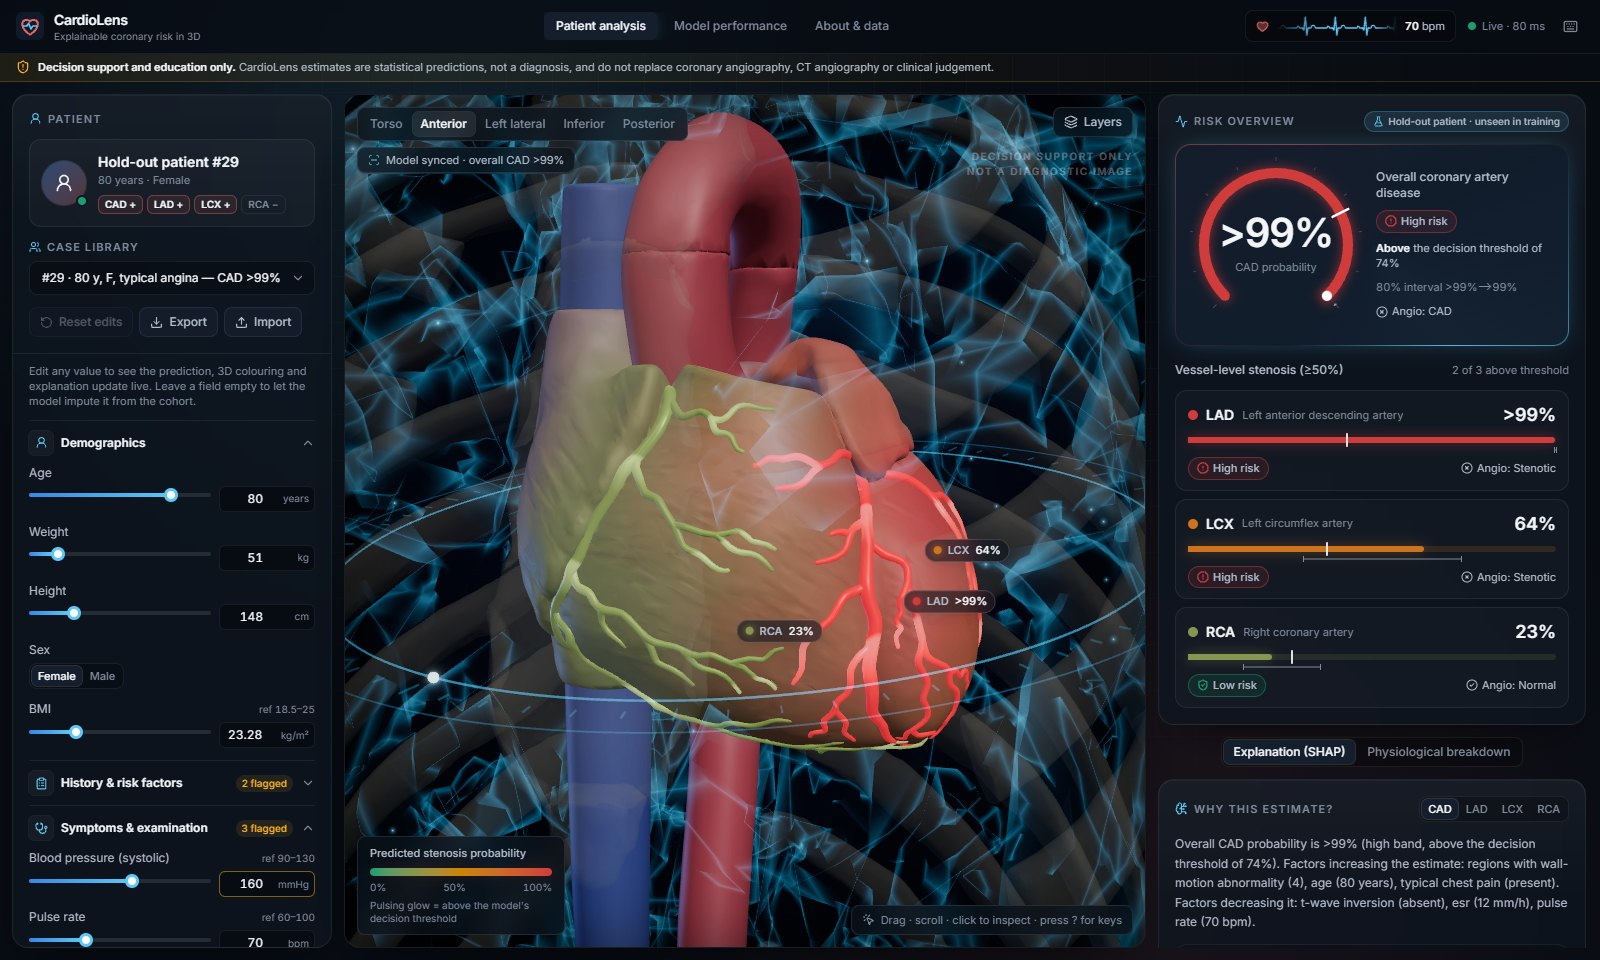
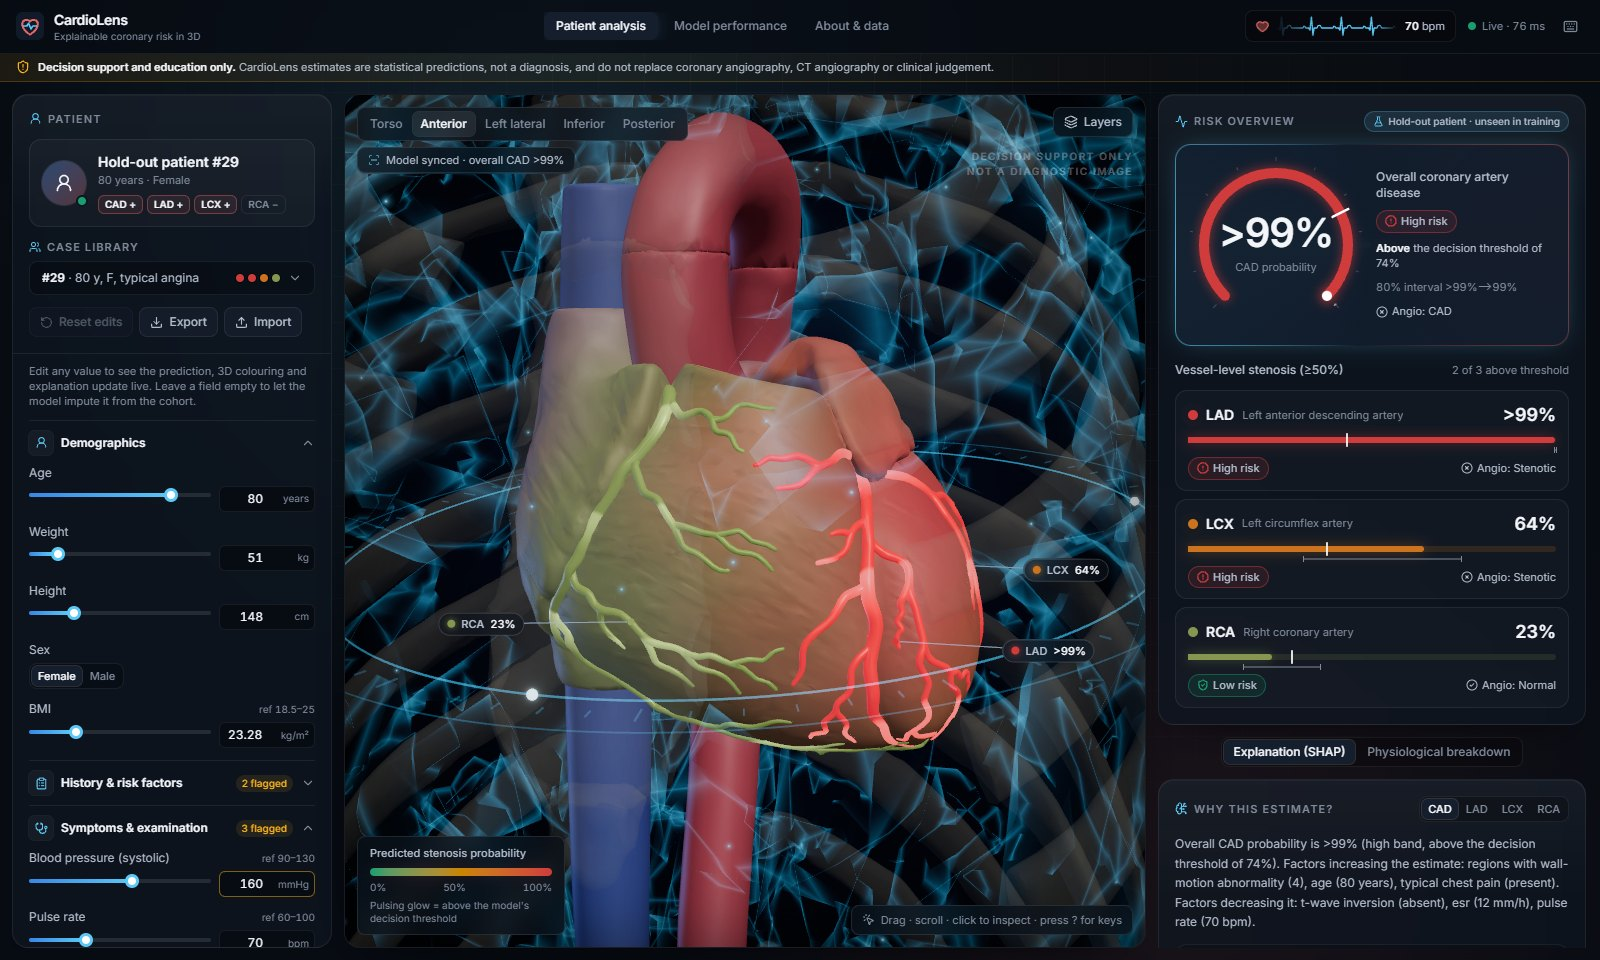
Refresh screenshots and describe the waterfall and case picker

diff --git a/README.md b/README.md
@@ -18,7 +18,7 @@ and explains every estimate with SHAP and a physiological breakdown.
   <img src="docs/figures/screenshot_whatif.jpg" alt="What-if mode: editing the age re-scores every artery live" width="49%">
   <img src="docs/figures/screenshot_xray.jpg" alt="X-ray mode, inferior view of the coronary tree" width="49%">
   <img src="docs/figures/screenshot_model.jpg" alt="Model performance dashboard" width="49%">
-  <img src="docs/figures/screenshot_disclaimer.jpg" alt="Welcome screen with the clinical safety disclaimer" width="49%">
+  <img src="docs/figures/screenshot_disclaimer.jpg" alt="Welcome screen: live 3D heart, key numbers and the clinical safety disclaimer" width="49%">
 </p>
 
 Multimodal AI Hackathon 2026, Track A: Cardiovascular Risk Visualization & Prediction.
@@ -34,7 +34,7 @@ Multimodal AI Hackathon 2026, Track A: Cardiovascular Risk Visualization & Predi
 | **3D anatomy** | Heart, coronary arteries, aorta, venae cavae, cardiac veins, lungs, rib cage and torso from BodyParts3D (FMA-annotated). LAD, LCX and RCA are separate GLB nodes, coloured live by their predicted probability. |
 | **Spatial risk mapping** | Hover the myocardium to see which artery supplies that region. The territory is tinted with that artery's risk colour (schematic nearest-artery map). |
 | **Interaction** | Orbit, zoom, pan, view presets, click-to-select vessels or myocardial regions, fly-to camera, layer toggles, x-ray mode, and a heartbeat at the patient's recorded pulse. |
-| **Explainability** | SHAP values are folded back to clinical features, additive in calibrated log-odds (a unit test checks the additivity). Each prediction gets a text summary, a physiological table with reference ranges, cohort percentile and each factor's share of the explanation, plus global SHAP and permutation importance. |
+| **Explainability** | SHAP values are folded back to clinical features, additive in calibrated log-odds (a unit test checks the additivity). Each prediction gets a text summary and a SHAP waterfall from the average patient to this patient (also as bars and a table). A physiological table lists reference ranges, cohort percentile and each factor's share of the explanation. Global SHAP and permutation importance are shown too. |
 | **Real-time** | Any input edit re-scores all four targets with explanations and bootstrap intervals in about 30–40 ms on a laptop CPU. |
 | **Visual feedback** | Each new prediction sends a scan band down the myocardium. Emissive pulses run along the arteries at the patient's heart rate, and arteries above their threshold glow (bloom). On the dashboard, numbers ease to new values and changed cards flash with the size of the change. SHAP rows re-order with layout animations, and an ECG strip in the header beats at the patient's pulse. Effects are dropped automatically on slow devices and respect *prefers-reduced-motion*. |
 | **Extensible** | Features (`backend/config/features.yaml`), targets (`targets.yaml`), model families (`models.py`) and 3D structures (`frontend/src/anatomy/registry.ts`) are all declared in configuration. |

diff --git a/docs/REPORT.md b/docs/REPORT.md
@@ -150,7 +150,7 @@ These drivers are clinically plausible and consistent with the literature on thi
 
 **Per-patient explanation in the dashboard.** For each target the dashboard shows:
 1. a deterministic text summary, for example *"LAD stenosis probability is 81% (high band, above the decision threshold of 43%). Factors increasing the estimate: typical chest pain (present), regions with wall-motion abnormality (2)…"*;
-2. a diverging SHAP bar chart of the top 10 factors plus "other features", labelled with the approximate change in probability each factor causes, with hover details and a table view;
+2. a SHAP waterfall that walks from the average patient to this patient factor by factor, on a log-odds axis labelled in probability. It also comes as a diverging bar chart and a table, labelled with the approximate change in probability each factor causes, with hover details;
 3. an "average patient → this patient" probability anchor;
 4. a **physiological breakdown** of all 54 inputs:
    - the value and its adult reference interval;
@@ -227,7 +227,7 @@ the 3D colours and explanations follow slider movements in real time.
 **Usage.**
 1. `docker compose up --build` and open <http://localhost:7860>, or run `uvicorn` and `npm run dev` for development.
 2. Acknowledge the disclaimer.
-3. Choose a hold-out patient or edit any input.
+3. Choose a hold-out patient from the searchable case library (risk dots and angiography result per case), or edit any input.
 4. Inspect the 3D heart, then the explanation and physiology panels.
 5. Open *Model performance* for ROC and calibration curves, confusion matrices, the family comparison and global importance.
 
